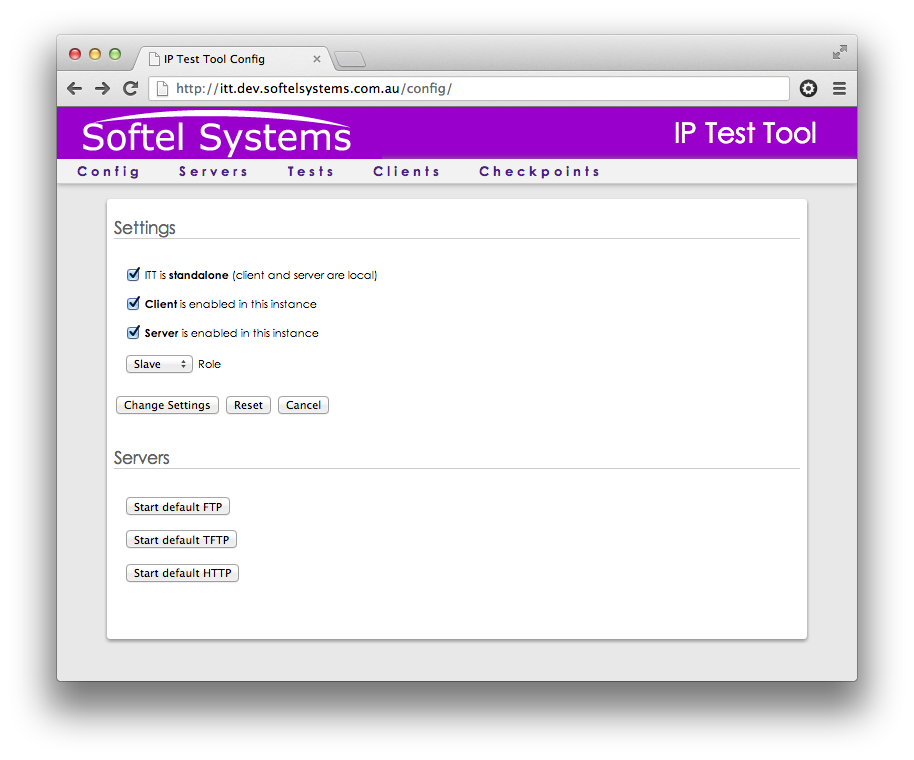
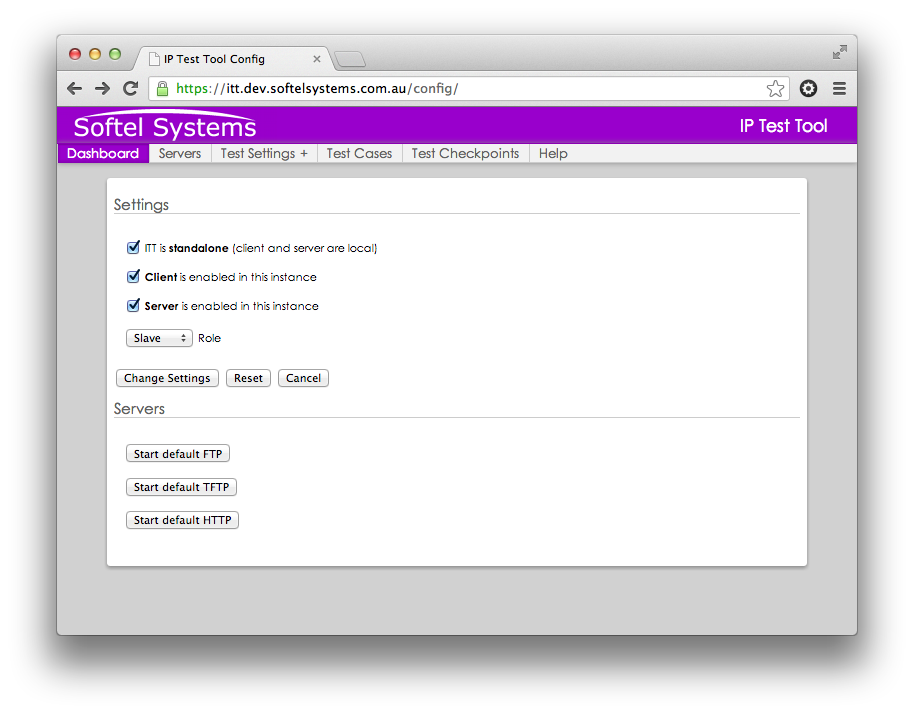
feature/us45 task/ta69 -- Update existing images and document references around Sprint 4

diff --git a/src/itt/doc/source/conf.py b/src/itt/doc/source/conf.py
@@ -43,9 +43,9 @@ copyright = u'2013, Softel Systems'
 # built documents.
 #
 # The short X.Y version.
-version = '0.0.1'
+version = '0.0.4'
 # The full version, including alpha/beta/rc tags.
-release = '0.0.1'
+release = '0.0.4'
 
 # The language for content autogenerated by Sphinx. Refer to documentation
 # for a list of supported languages.

diff --git a/src/itt/doc/source/index.rst b/src/itt/doc/source/index.rst
@@ -9,21 +9,29 @@
 IP Test Tool
 ============
 .. note::
-    Updated 30 April 2013 -- Sprint 3
+    Updated 15 May 2013 -- Sprint 4
 
-    Sprint 3 aims to introduce the ITT workflows from a system usability
-    perspective.
+    Sprint 4 introduces the ITT Test Case component workflows.
 
 Workflow
 ^^^^^^^^
 .. note::
     Workflow items will evolve and become further defined as project matures
 
+Installation
+------------
+
 * ITT is installed
+
+Management
+----------
 
 * Start the ITT Console
 
 * Login as the default admin user (admin:admin)
+
+ITT Instance Configuration
+--------------------------
 
 * ITT node configuration.  Will it be:
 
@@ -37,9 +45,17 @@ Workflow
 
   * Start select servers
 
+ITT Test Cases
+--------------
+
 * ITT test configuration
 
   * Prepare test cases or use defaults 
+
+ITT Client
+----------
+
+* Select tests
 
 * Run tests
 
@@ -215,5 +231,114 @@ settings.  This screen presents the details around these defaults.
 
 .. image:: _static/itt_server_view.png
     :alt: IP Test Tool Servers menu item
+    :align: center
+    :scale: 75%
+
+Test Settings
+^^^^^^^^^^^^^
+
+In general, an ITT client can be invoked with a predefined ITT Test Case
+whose settings are defined under the **Test Settings** menu option.
+
+The **Test Settings** link is an expandable menu option that groups the Test
+Case components.
+
+.. image:: _static/itt_test_case_structure.png
+    :align: center
+    :scale: 75%
+
+Test Configurations
+-------------------
+
+A **Test Configuration** relate to the way the ITT Client transfers its
+content:
+
+* **Minimum Gap**
+
+    Defines the minimum gap between chunks of data, in seconds.
+    Only valid if chunk_size is not ``None``.
+
+* **Chunk Size**
+
+    Defines the amount of data that will be sent 'at full speed',
+    before having an optional gap (as defined by *minimum_gap*).
+
+.. image:: _static/itt_test_config_view.png
+    :align: center
+    :scale: 75%
+
+Test Content
+------------
+
+The actual content that is transfered durint the test.  Content can be
+prepared for the ITT Client and ITT Server (ITT Server content yet to be
+enabled)
+
+* **Static**
+
+    Defines the nature in which the content is generated.  If ``True``,
+    the content is taken from a static source and guarantees consistency
+    across invocations.  If ``False``, the content is generated randomly.
+
+* **Bytes**
+
+    Defines the size of the content in bytes.
+
+  .. note:: Only valid for random data (that is, if **Filename** is not
+    defined).
+
+.. image:: _static/itt_test_content_view.png
+    :align: center
+    :scale: 75%
+
+Test Connections
+----------------
+
+.. image:: _static/itt_test_connections_view.png
+    :align: center
+    :scale: 75%
+
+* **Hostname**
+
+* **Port**
+
+* **Protocol**
+
+    Must be one of *http*, *ftp*, or *tftp*.
+
+Test Checkpoints
+^^^^^^^^^^^^^^^^
+
+**Test Checkpoints** are predefined events which register a message to
+the local instance ITT Control and Command.  By default, the ITT Client
+and Server instances will register a message at the start of a test transfer
+and at the end of a test transfer.
+
+Periodically, the checkpoints are sent to the Master ITT Control and
+Command.  At any time, the Master instance will feature a snapshot of the
+various test invocations of ITT instances in the field.
+
+Test Checkpoints serve as a test progress indicator and also form the source
+data for the downstream ITT Analyser.
+
+Test Checkpoints Search
+-----------------------
+
+Due to the anticipated high volume of Test Checkpoints generated per ITT
+instance, the **Test Checkpoints** view features a search page that filters
+Checkpoints on Node (ITT instance) names.
+
+  .. note::
+
+    Date based search filtering to be provided at a later date.
+
+.. image:: _static/itt_test_checkpoints_search_view.png
+    :align: center
+    :scale: 75%
+
+Test Checkpoints Results
+------------------------
+
+.. image:: _static/itt_test_checkpoints_results_view.png
     :align: center
     :scale: 75%
